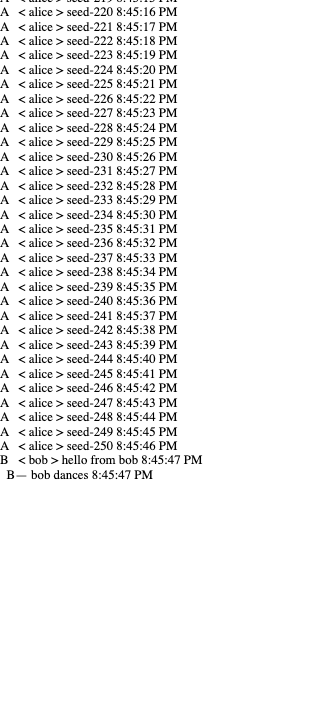
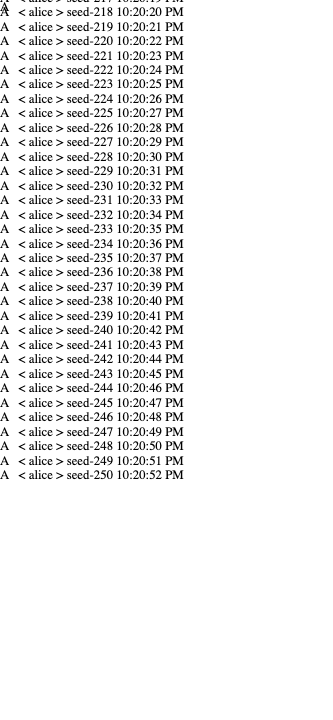
fix(scroll): track scrollTop in $effect to prevent snap-back on arrow-key scroll
HandleScroll strict check and poll/ResizeObserver scrollTop tracking
handled most cases, but the main $effect bottom branch still snapped
when a new message arrived while the user was scrolled up (no scroll
event fired for tiny deltas, so cachedAtBottom stayed true).

Fix: track lastEffectScrollTop across $effect runs. If scrollTop
decreased since last run, user scrolled up — clear cachedAtBottom and
bail instead of snapping. Keeps overflow-anchor:none removed.

diff --git a/frontend/src/components/MessageList.svelte b/frontend/src/components/MessageList.svelte
@@ -482,6 +482,7 @@
   // never stacks chains. Reading scrolled-up history is never forced —
   // the poll bails the moment the user scrolls away.
   let pinnedResnapTimer: ReturnType<typeof setTimeout> | null = null;
+  let lastEffectScrollTop = 0;
   function schedulePinnedResnap(): void {
     if (pinnedResnapTimer) { clearTimeout(pinnedResnapTimer); pinnedResnapTimer = null; }
     if (pendingPollTimer) { clearTimeout(pendingPollTimer); pendingPollTimer = null; }
@@ -682,6 +683,8 @@
     handledDividerMark = mark;
 
     if (cachedAtBottom && !isServerBuffer) {
+      if (container && container.scrollTop < lastEffectScrollTop - 2) { cachedAtBottom = false; lastEffectScrollTop = container.scrollTop; } else {
+      lastEffectScrollTop = container ? container.scrollTop : lastEffectScrollTop;
       maybeTrim();
       // Ensure trim has been applied to the DOM before measuring
       // scrollHeight. Without this, renderStart may have just been moved
@@ -748,6 +751,7 @@
       // entrance animation, embed decode, sync-driven realname spans)
       // can land well after the rAF above.
       schedulePinnedResnap();
+      }
     } else if (newDivider && cachedAtTop) {
       // IRCCloud fetched(): atTop && !pinBottom && divider → divider scroll.
       // Do it synchronously (no rAF) so the first paint after prepend already
@@ -1282,7 +1286,6 @@
     scroll-behavior: auto;
     overscroll-behavior: contain;
     scrollbar-gutter: stable;
-    overflow-anchor: none;
   }
   /* IRCCloud .clockShown: pad the top rows so the floating scroll clock
      doesn't cover the loadMore button / fetching divider. */

diff --git a/public/dist/index.html b/public/dist/index.html
@@ -38,9 +38,9 @@
   <link rel="preconnect" href="https://fonts.gstatic.com" crossorigin />
   <link href="https://fonts.googleapis.com/css2?family=Source+Sans+Pro:wght@400;600&amp;display=swap" rel="stylesheet" />
   <link rel="stylesheet" href="https://cdnjs.cloudflare.com/ajax/libs/font-awesome/4.7.0/css/font-awesome.min.css" integrity="sha256-eZrrJcwDc/3uDhsdt61sL2oOBY362qM3lon1gyExkL0=" crossorigin="anonymous" />
-  <script type="module" crossorigin src="/assets/main-BrhIsMmQ.js"></script>
+  <script type="module" crossorigin src="/assets/main-De_av1IR.js"></script>
   <link rel="modulepreload" crossorigin href="/assets/legacy-DNWk3gQL.js">
-  <link rel="stylesheet" crossorigin href="/assets/main-CwCK1bB7.css">
+  <link rel="stylesheet" crossorigin href="/assets/main-CkzMCXLS.css">
 </head>
 <body>
   <div id="app"></div>
